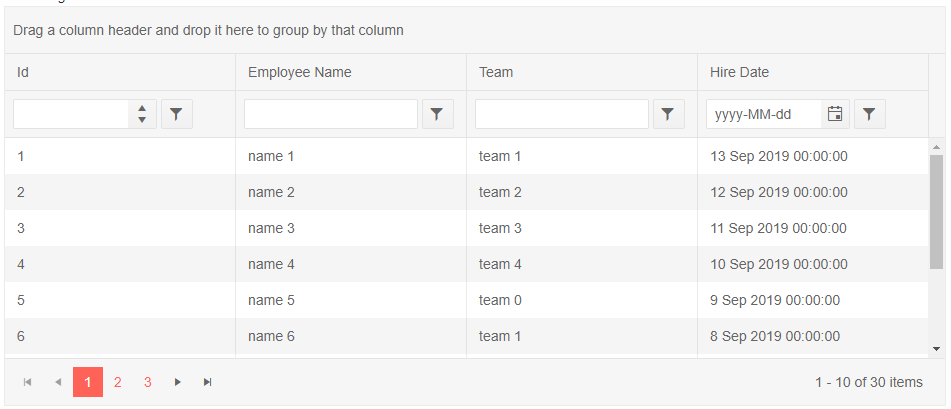
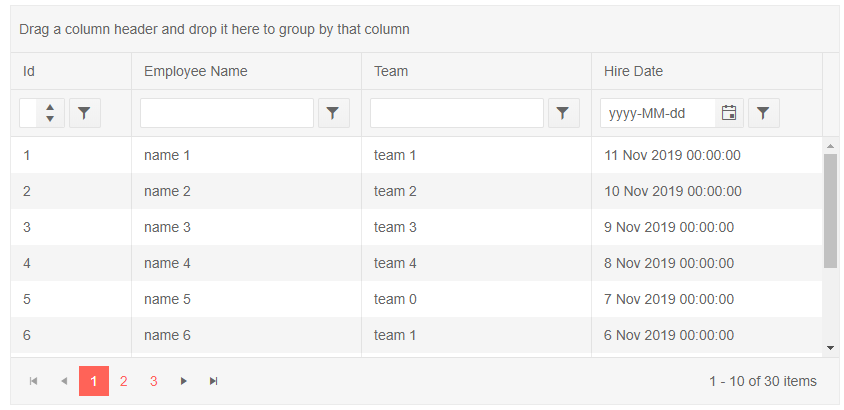
chore(grid): events article; updated overview sample

diff --git a/components/grid/events.md b/components/grid/events.md
@@ -1,0 +1,43 @@
+---
+title: Events
+page_title: Grid for Blazor | Events
+description: Events of the Grid for Blazor
+slug: grid-events
+tags: telerik,blazor,grid,events
+published: True
+position: 100
+---
+
+# Grid Events
+
+This article explains the events available in the Telerik Grid for Blazor. They are grouped logically.
+
+* [CUD Events](#cud-events) - events related to Creating, Updating and Deleting items
+* [Read Event](#read-event) - event related to obtaining data
+* [Other Events](#other-events) - other events the grid provides
+	* [Command Button Click](#command-button-click)
+
+## CUD Events
+
+The `OnCreate`, `OnUpdate` and `OnDelete` events let you get the data item that the user changed so you can transfer the user action to the actual data source.
+
+The `OnEdit` and `OnCancel` events let you respond to user actions - when they want to edit an item and when the want to cancel changes on an item they have been editing. You can use them to, for example, prevent editing of certain items based on some condition.
+
+You can read more about the CUD events in the [Editing Overview]({%slug components/grid/editing/overview%}) article.
+
+## Read Event
+
+In the common case, you provide all the data to the grid's `Data` collection and the grid performs operations like paging, filtering, sorting on it for you. In some cases you may want to do this with your own code (for example, to retrieve only a small number of items in order to improve the backend performance). You can do this by attaching to the `OnRead` event where you can perform all the data read operations in the grid. You can read more about them in the [Manual Data Source Operations]({%slug components/grid/manual-operations%}) article.
+
+
+## Other Events
+
+## Command Button Click
+
+The command buttons of a grid provide an `OnClick` event before firing their built-in command (such as opening a row for editing, or adding a new row). You can do this to implement some additional logic and to also handle custom commands - both from a [Command Column]({%slug components/grid/columns/command%}), and from a [Toolbar Button]({%slug components/grid/features/toolbar%})
+
+## See Also
+
+  * [Grid Overview]({%slug components/grid/overview%})
+  * [Grid Editing Overview]({%slug components/grid/editing/overview%})
+  * [Manual Data Source Operations]({%slug components/grid/manual-operations%})

diff --git a/components/grid/overview.md b/components/grid/overview.md
@@ -25,9 +25,10 @@ General grid with its most common features
 
 <TelerikGrid Data="@MyData" Height="400px"
              Pageable="true" Sortable="true" Groupable="true"
-             FilterMode="Telerik.Blazor.GridFilterMode.FilterRow">
+             FilterMode="Telerik.Blazor.GridFilterMode.FilterRow"
+             Resizable="true" Reorderable="true">
     <GridColumns>
-        <GridColumn Field="@(nameof(SampleData.Id))" />
+        <GridColumn Field="@(nameof(SampleData.Id))" Width="120px" />
         <GridColumn Field="@(nameof(SampleData.Name))" Title="Employee Name" Groupable="false" />
         <GridColumn Field="@(nameof(SampleData.Team))" Title="Team" />
         <GridColumn Field="@(nameof(SampleData.HireDate))" Title="Hire Date" />

diff --git a/components/grid/toolbar.md b/components/grid/toolbar.md
@@ -27,7 +27,7 @@ In this article, you will learn how to use:
 
 The grid offers built-in commands that you can invoke through its toolbar. To use them, set the `Command` property of the button to the command name. The built-in command names are:
 
-* `Add` - startes inserting a new item in the grid.
+* `Add` - starts inserting a new item in the grid.
 
 >caption How to insert a new item in the grid
 
